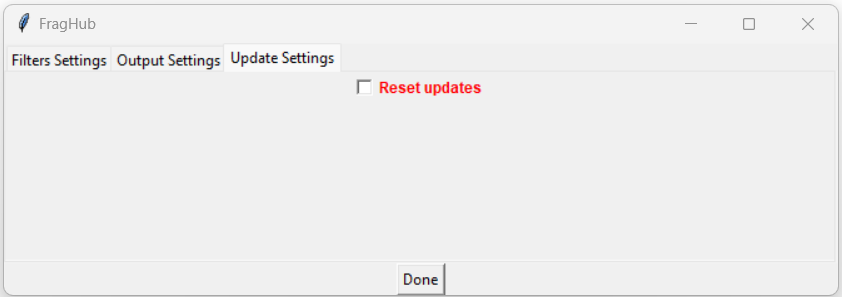
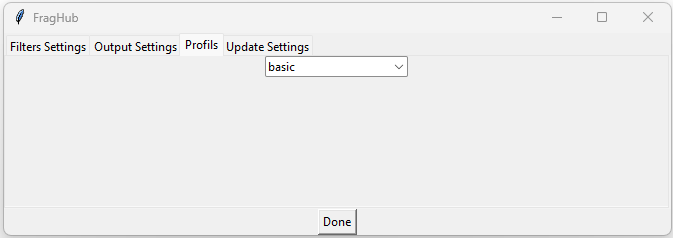
Revised instructions in README.md
Revised the instructions in README.md to indicate that 'Reset updates' option is now located under the fourth tab instead of the third. The update ensures instructions align with the recent changes to the interface, improving ease of use and understanding for users.

diff --git a/README.md b/README.md
@@ -18,7 +18,8 @@ To use this programme:
    1) FragHub GUI start<br>
    2) First tab: This area allows users to select specific functions for inclusion during the processing stage. Moreover, it provides the option to adjust the respective parameters of each function.<br>![img.png](img.png)
    3) Second tab: Select the output file format of your preference. By default, all formats are selected.<br>![img_1.png](img_1.png)
-   4) Third tab: The 'Reset updates' option, when checked, allows for a reset of everything related to previously encountered spectra. This will also delete all existing files located in the OUTPUT folder.<br>![img_2.png](img_2.png)
+   4) Third tab: <br>![img_2.png](img_2.png)
+   4) Fourth tab: The 'Reset updates' option, when checked, allows for a reset of everything related to previously encountered spectra. This will also delete all existing files located in the OUTPUT folder.<br>![img_3.png](img_3.png)
 3) When the execution is complete, please remember to take a copy of your cleaned files from the OUTPUT folder and place them in a different location.
 4) **DO NOT DELETE FILES INTO 'OUTPUT' AFTER COPY CLEANED VERSIONS.**
 
